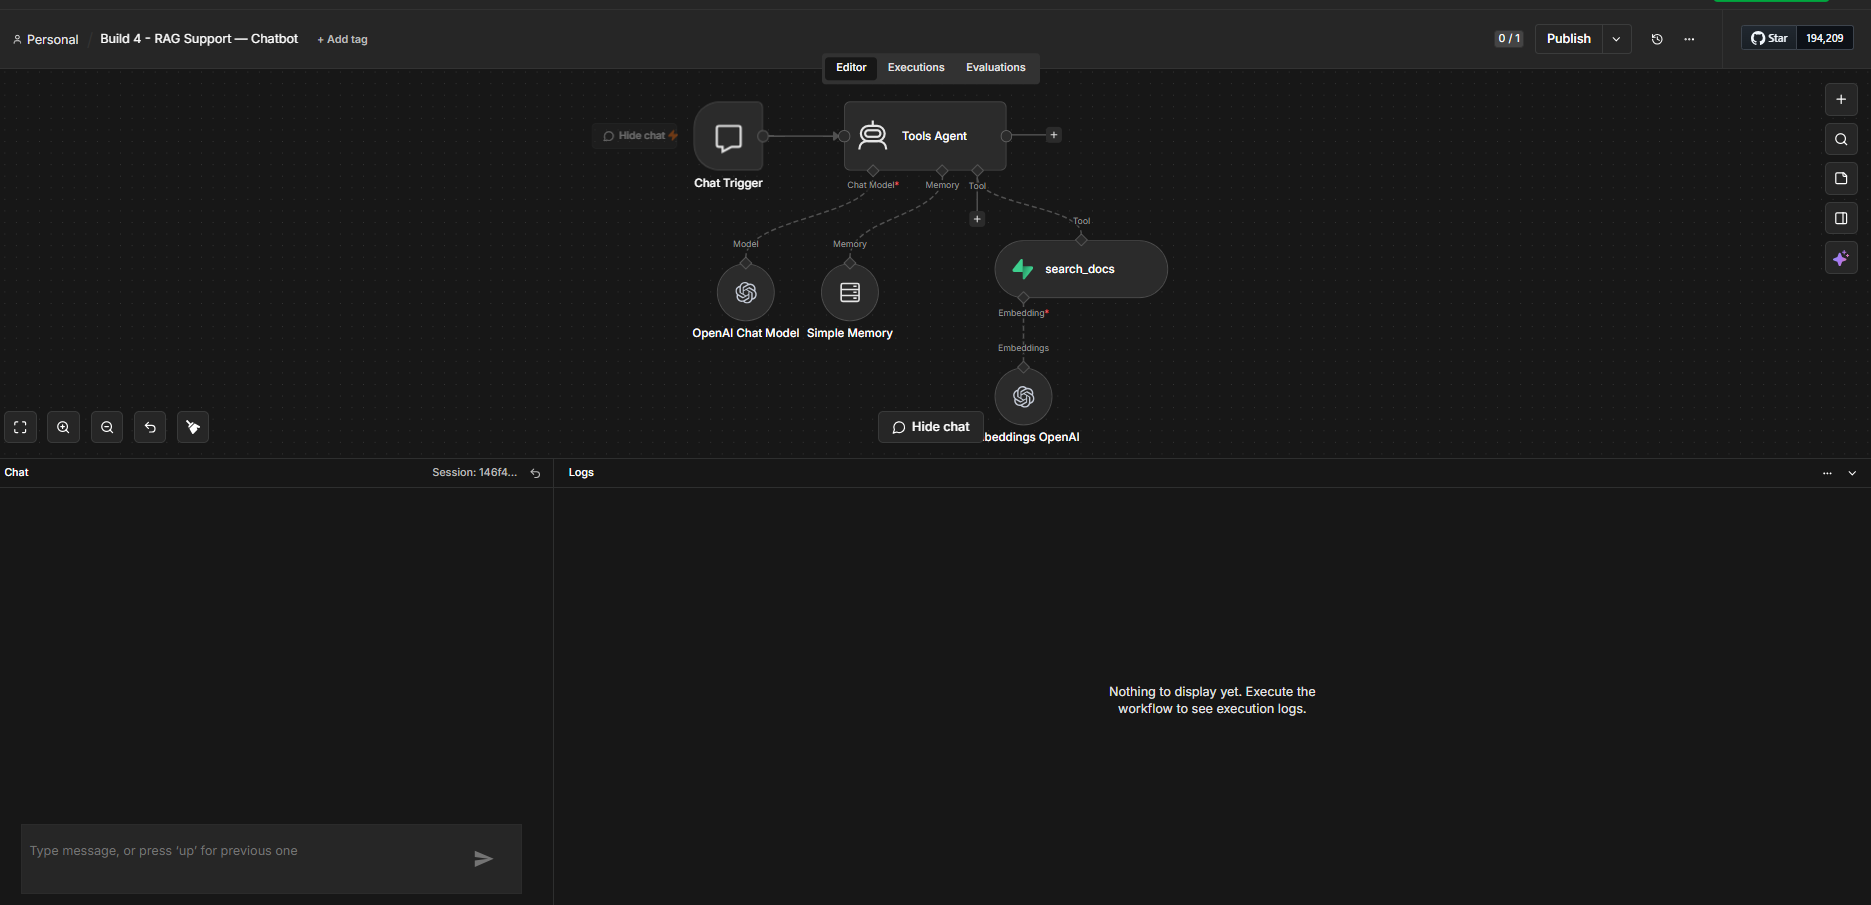
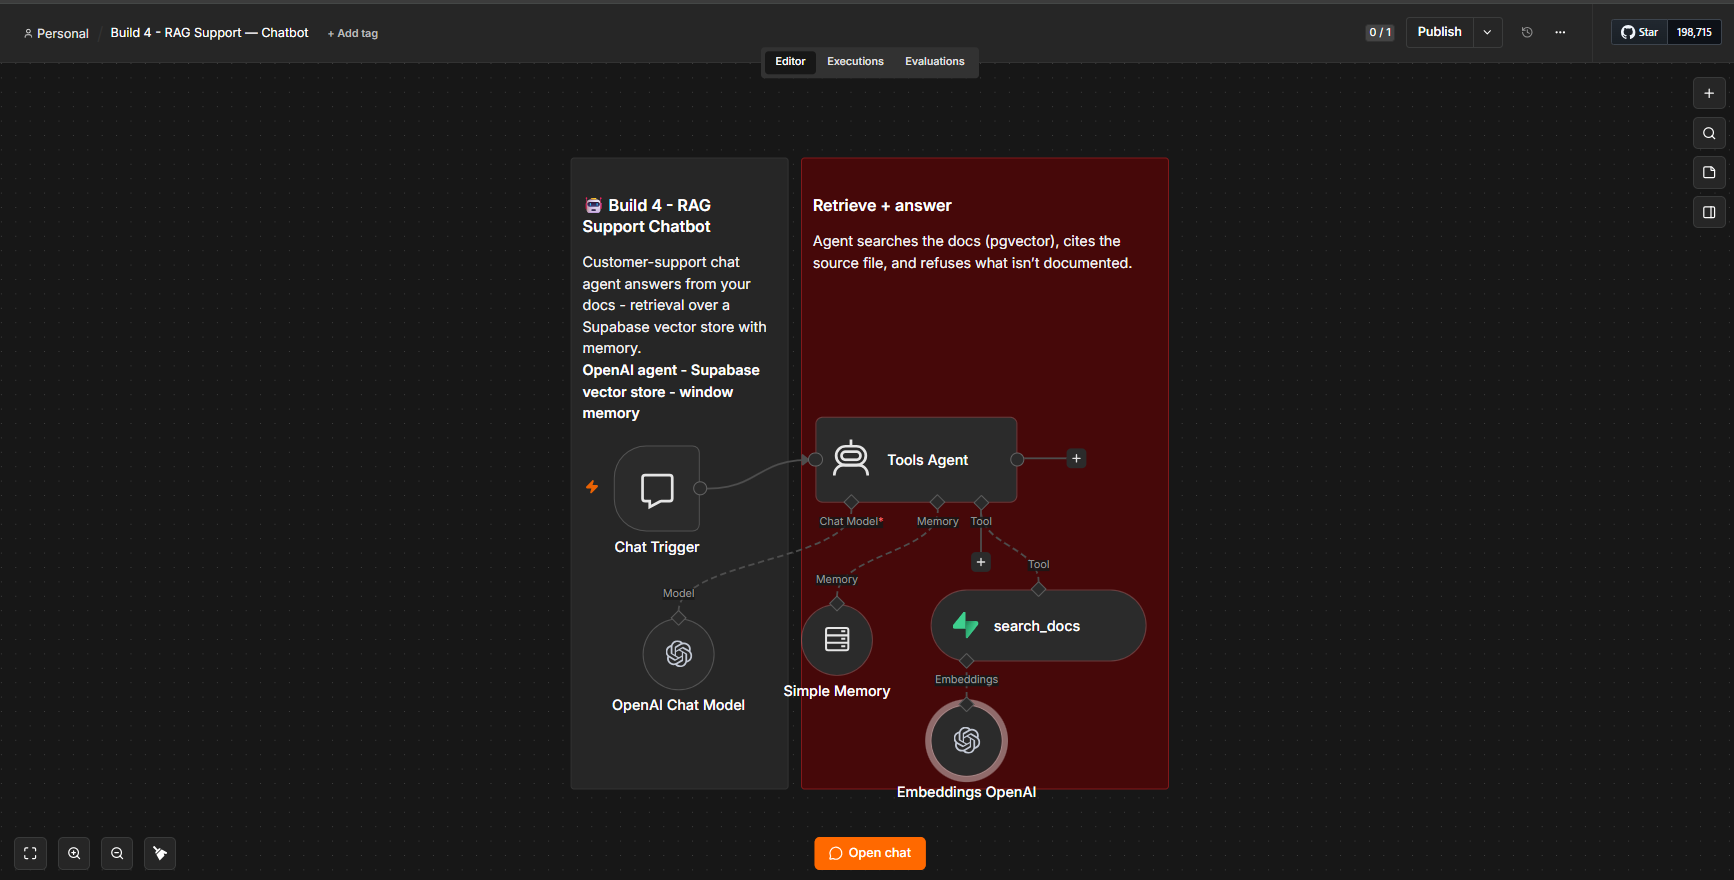
Swap in sticky-annotated workflow canvases for 12 builds
Replace stale pre-annotation screenshots with fresh captures from the
live n8n (Render) that show the header + numbered stage sticky notes.
Fixes Social (was a Slack screenshot) and MCP (was near-empty); switches
Email Qualifier from architecture diagram to real canvas.

diff --git a/index.html b/index.html
@@ -468,8 +468,8 @@
             <h3>Email Lead Qualifier</h3>
             <span class="tag">Lead Response</span>
           </div>
-          <a class="canvas" href="assets/emailqual.svg" target="_blank" rel="noopener">
-            <img src="assets/emailqual.svg" alt="Email lead qualifier architecture diagram (n8n)" loading="lazy" />
+          <a class="canvas" href="assets/emailqual.png" target="_blank" rel="noopener">
+            <img src="assets/emailqual.png" alt="Email lead qualifier workflow canvas (n8n)" loading="lazy" />
             <span class="canvas-hint">⤢ View full size</span>
           </a>
           <div class="project-body">
